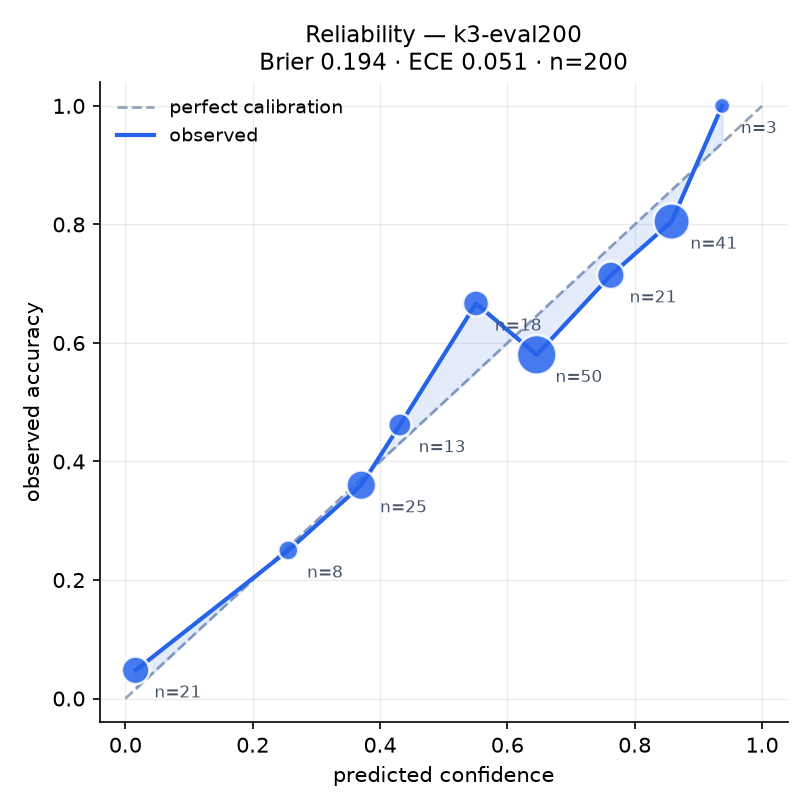
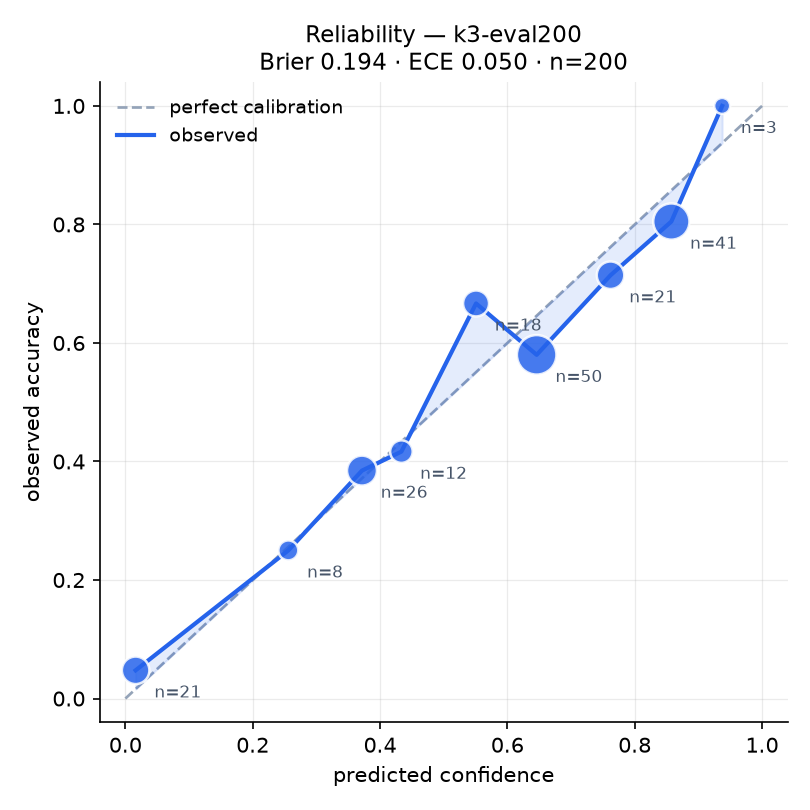
fix(confidence): make has_nested_select distinct from has_subquery
The two correlated at r=1.0000, both answering 'does SELECT appear more than
once'. has_nested_select now means a second SELECT that is not a parenthesised
subquery -- a set operation or CTE -- so the flags describe different
structures. A regression test asserts no feature pair exceeds r=0.999, with a
fixture chosen so each structural property varies independently.

The fix did not improve the model: Brier held at 0.1943, ECE moved 0.0507 to
0.0499. That is the expected result, since a perfectly redundant feature
contributes nothing and removing the redundancy cannot recover anything. It is
recorded as such rather than as a performance win.

Changed region(s): [[0.3704, 0.4321, 0.5864, 0.679], [0.6173, 0.0617, 0.6481, 0.0926], [0.5556, 0.4012, 0.5864, 0.4321]]

diff --git a/tests/test_confidence.py b/tests/test_confidence.py
@@ -2,6 +2,7 @@ import numpy as np
 import pytest
 
 from sqlsentinel.confidence import (
+    FEATURE_NAMES,
     ConfidenceModel,
     QueryFeatures,
     agreement_confidence,
@@ -27,7 +28,9 @@ def test_features_detect_sql_structure():
     f = extract_features(t, "how many?", "hint", n_schema_tables=5)
     assert f.has_aggregation == 1.0
     assert f.has_subquery == 1.0
-    assert f.has_nested_select == 1.0
+    # not a "nested select": that flag now means a second SELECT which is *not*
+    # a parenthesised subquery, so the two features stop being duplicates
+    assert f.has_nested_select == 0.0
     assert f.n_joins == 1.0
     assert f.n_tables_referenced == 3.0
     assert f.evidence_provided == 1.0
@@ -122,3 +125,69 @@ def test_reliability_curve_bins_sum_to_n():
     probs = np.linspace(0, 1, 100)
     correct = (probs > 0.5).astype(int)
     assert sum(b["count"] for b in reliability_curve(probs, correct)) == 100
+
+
+# ---------------------------------------------------------------- collinearity
+
+
+def test_subquery_and_nested_select_are_distinct_features():
+    """Regression: these correlated at r=1.0000 (FINDINGS section 9).
+
+    Both were answering "does SELECT appear more than once", making one of the
+    14 features dead weight. has_nested_select now covers the case
+    has_subquery does not: a second SELECT that is not a parenthesised
+    subquery, i.e. a set operation or CTE.
+    """
+    sub = extract_features(
+        FakeTrace(sql="SELECT a FROM t WHERE b IN (SELECT c FROM u)"), "q", "", 3
+    )
+    assert sub.has_subquery == 1.0
+    assert sub.has_nested_select == 0.0
+
+    union = extract_features(FakeTrace(sql="SELECT a FROM t UNION SELECT a FROM u"), "q", "", 3)
+    assert union.has_subquery == 0.0
+    assert union.has_nested_select == 1.0
+
+    plain = extract_features(FakeTrace(sql="SELECT a FROM t"), "q", "", 3)
+    assert plain.has_subquery == 0.0
+    assert plain.has_nested_select == 0.0
+
+
+def test_no_two_features_are_perfectly_collinear():
+    """Nothing in the pipeline checked this, and a duplicate slipped through."""
+    import itertools
+
+    import numpy as np
+
+    rng = np.random.default_rng(0)
+    # Chosen so each structural property varies independently of the others.
+    # A fixture where, say, every subquery also has a JOIN produces incidental
+    # collinearity and would fail this test without any design flaw existing.
+    sqls = [
+        "SELECT a FROM t",
+        "SELECT COUNT(*) FROM t WHERE x='y'",
+        "SELECT a FROM t JOIN u ON 1=1",  # join, no subquery
+        "SELECT a FROM t WHERE b IN (SELECT c FROM v)",  # subquery, no join
+        "SELECT a FROM t JOIN u ON 1=1 WHERE b IN (SELECT c FROM v)",  # both
+        "SELECT a FROM t UNION SELECT a FROM u",  # set operation
+        "SELECT AVG(p) FROM t GROUP BY q",  # aggregate only
+        "SELECT a, b, c FROM t ORDER BY a LIMIT 5",  # projection only
+        "SELECT COUNT(*) FROM t JOIN u ON 1=1 JOIN v ON 1=1",  # two joins
+    ]
+    feats = []
+    for i, s in enumerate(sqls):
+        feats.append(
+            extract_features(
+                FakeTrace(sql=s, agreement_rate=rng.uniform(), rows=int(rng.integers(0, 20))),
+                "a question of some length here",
+                "evidence" if i % 2 else "",
+                n_schema_tables=3 + i,
+            ).vector()
+        )
+    X = np.array(feats)
+    for i, j in itertools.combinations(range(X.shape[1]), 2):
+        a, b = X[:, i], X[:, j]
+        if a.std() == 0 or b.std() == 0:
+            continue
+        r = abs(np.corrcoef(a, b)[0, 1])
+        assert r < 0.999, f"{FEATURE_NAMES[i]} and {FEATURE_NAMES[j]} collinear at r={r:.4f}"

diff --git a/src/sqlsentinel/confidence.py b/src/sqlsentinel/confidence.py
@@ -80,7 +80,11 @@ def extract_features(trace, question: str, evidence: str, n_schema_tables: int) 
         n_tables_referenced=float(len(tables)),
         has_aggregation=float(bool(_AGG.search(sql))),
         has_subquery=float(bool(_SUBQ.search(sql))),
-        has_nested_select=float(sql.upper().count("SELECT") > 1),
+        # Counts SELECTs that are *not* parenthesised subqueries -- set
+        # operations (UNION/INTERSECT/EXCEPT) and CTEs. Measured at r=1.0000
+        # with has_subquery before this was distinguished (FINDINGS section 9):
+        # both were answering "does SELECT appear more than once".
+        has_nested_select=float(sql.upper().count("SELECT") > 1 and not bool(_SUBQ.search(sql))),
         execution_errored=float(trace.execution_errored_pre_correction),
         n_correction_rounds=float(trace.n_correction_rounds),
         result_row_count_log=float(np.log1p(max(trace.result_row_count, 0))),

diff --git a/results/FINDINGS.md b/results/FINDINGS.md
@@ -326,11 +326,23 @@ univariate predictor is not automatically a useful feature.**
 
 ### A redundancy bug in my own feature set
 
-`has_subquery` and `has_nested_select` correlate at **r = 1.0000** on this data —
-they are the same feature computed two ways (`(SELECT` versus counting the
-occurrences of `SELECT`). Their single-feature Brier and ECE are identical to
-four decimal places. One of them is dead weight, and it went unnoticed until
-this ablation because nothing in the pipeline checks for collinearity.
+`has_subquery` and `has_nested_select` correlated at **r = 1.0000** on this data —
+they were the same feature computed two ways (`(SELECT` versus counting the
+occurrences of `SELECT`). Their single-feature Brier and ECE were identical to
+four decimal places. One was dead weight, and it went unnoticed until this
+ablation because nothing in the pipeline checked for collinearity.
+
+**Fixed:** `has_nested_select` now means a second SELECT that is *not* a
+parenthesised subquery — a set operation or CTE — so the two flags describe
+different structures. A regression test asserts no pair of features exceeds
+r = 0.999.
+
+Worth stating plainly: **the fix did not improve the model.** Brier stayed at
+0.1943 and ECE moved from 0.0507 to 0.0499, which is noise. That is the expected
+result — a perfectly redundant feature contributes nothing, so removing the
+redundancy cannot recover anything. What the fix buys is that the feature now
+measures something real, so future ablations are interpretable. Reporting it as
+a performance win would be inventing a result.
 
 ### What a smaller model does
 

diff --git a/results/RESULTS.md b/results/RESULTS.md
@@ -38,7 +38,7 @@ Paired (exact McNemar, same questions): **+5.0 points**, 61 fixed, 36 broken, p 
 | Scorer | n | Brier ↓ | ECE ↓ | base accuracy |
 |---|---:|---:|---:|---:|
 | k3-eval200 v1 (agreement only) | 200 | **0.2622** | 0.2033 | 55.0% |
-| k3-eval200 v2 (calibrated, 200 calibration questions) | 200 | **0.1943** | 0.0507 | 55.0% |
+| k3-eval200 v2 (calibrated, 200 calibration questions) | 200 | **0.1943** | 0.0499 | 55.0% |
 
 Single-sample runs, shown as a control:
 
@@ -62,7 +62,7 @@ Reliability diagrams: `results/calibration-*.png`
 | 0.25 | 12% | 24% | 61.4% | 2.04× |
 | 0.30 | 14% | 29% | 62.6% | 1.99× |
 | 0.35 | 16% | 33% | 64.1% | 2.02× |
-| 0.40 | 27% | 47% | 67.1% | 1.73× |
+| 0.40 | 28% | 47% | 66.9% | 1.70× |
 | 0.45 | 32% | 51% | 67.6% | 1.60× |
 | 0.50 | 34% | 54% | 69.2% | 1.63× |
 | 0.55 | 38% | 58% | 69.4% | 1.52× |
